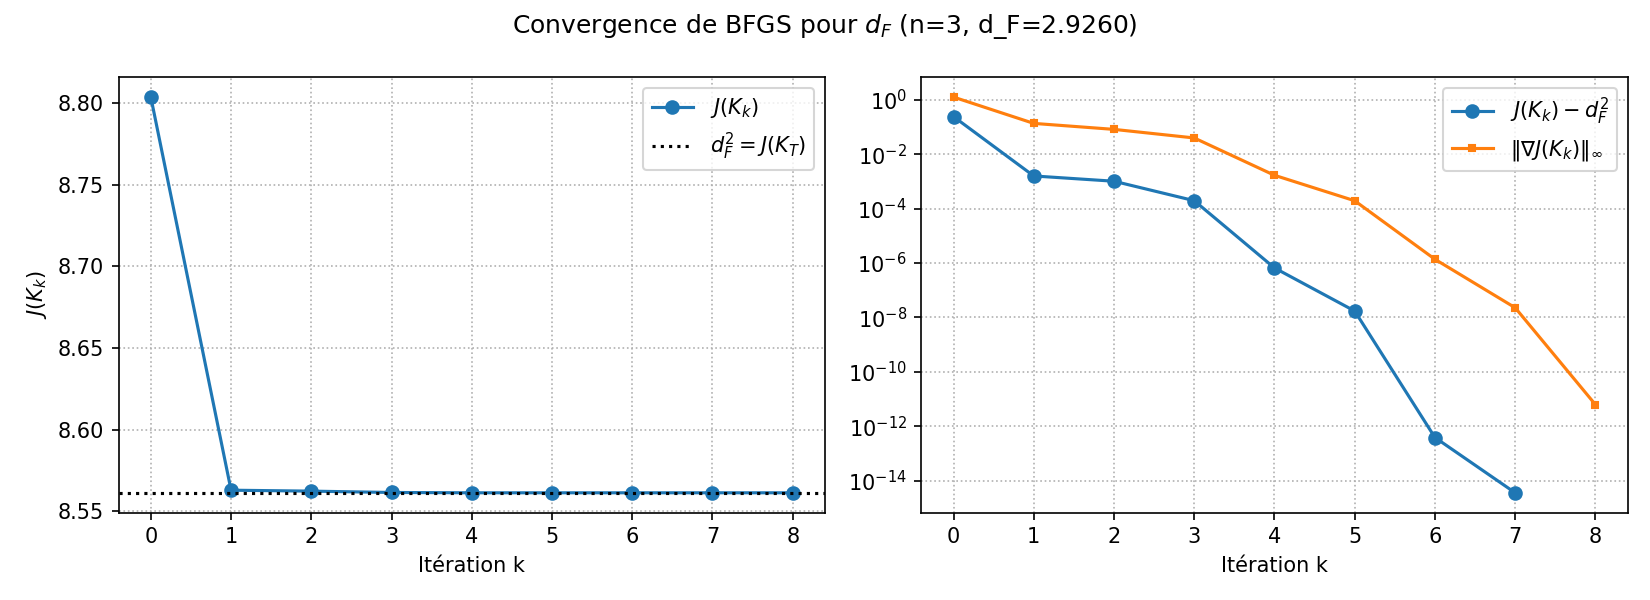
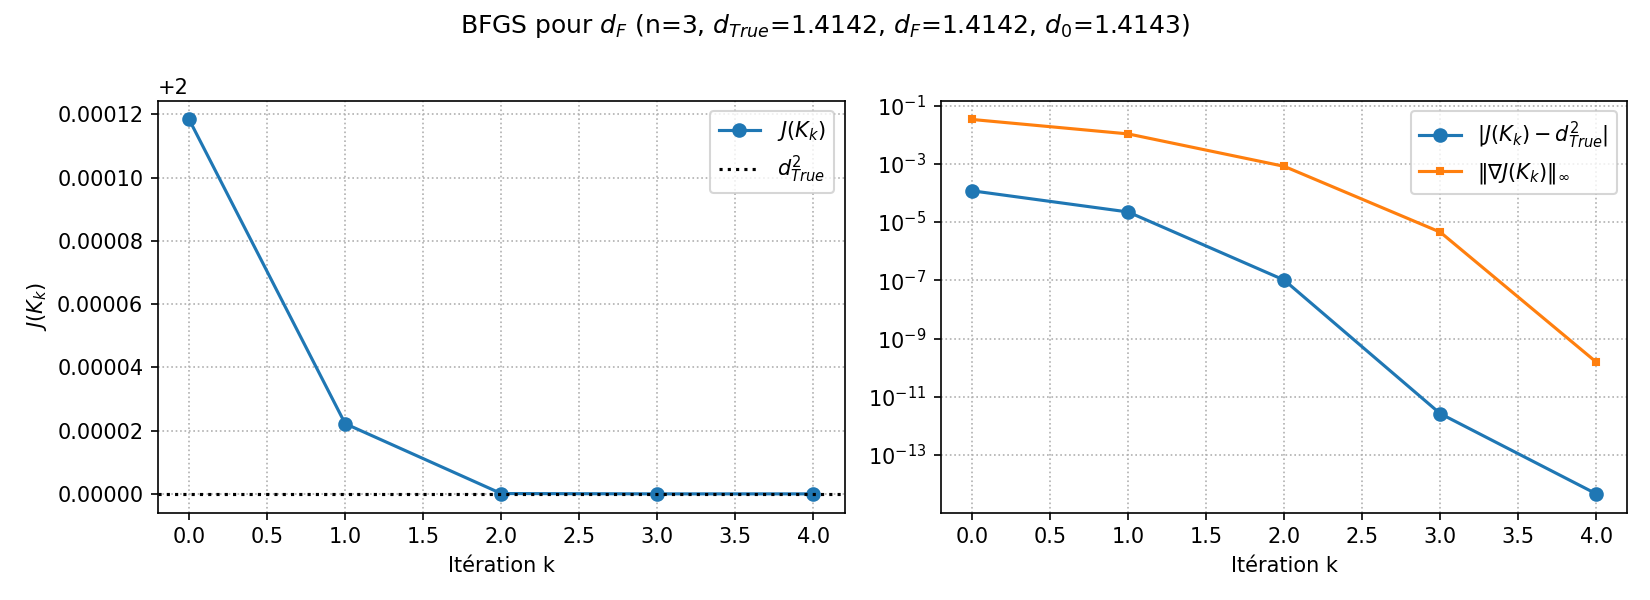
Benchmark BFGS d_F in run_dF_iterates against a known geodesic length
Replace the hand-picked MVN pair by N(mu1, Sigma1) = Exp_{N(mu0, Sigma0)}(v, T)
with prescribed Fisher norms of the mean and covariance parts, and compare the
BFGS d_F and d_0 to the geodesic length d_True. Save the full case to
output/dF_iterates.json for reproducibility.

diff --git a/scripts/run_dF_iterates.py b/scripts/run_dF_iterates.py
@@ -1,30 +1,64 @@
+import json
 import time
 
 import numpy as np
 import matplotlib.pyplot as plt
 
 from src.distance import dist2_dF_iterates
+from src.mvn import exp_map_mvn, fisher_norm2
+from src.simulated_data import random_SPD, sym
 
 
 def main() -> None:
     """
-    Computes d_F between two chosen MVNs and plots the BFGS iterates J(K_k).
-    """
-    print("[run_dF_iterates] starting…")
+    Builds a pair of MVNs joined by a known geodesic, computes d_F by BFGS and
+    compares it, together with d_0, to the length d_True of that geodesic.
 
-    # ----- paramètres des deux MVN -----
-    mu0 = np.array([0., 0., 0.])
-    Sigma0 = np.array([[2.0, 0.5, 0.0],
-                       [0.5, 1.0, 0.3],
-                       [0.0, 0.3, 0.5]])
-    mu1 = np.array([1.0, -2.0, 0.5])
-    Sigma1 = np.array([[0.2, 0.0, 0.0],
-                       [0.0, 3.0, 0.0],
-                       [0.0, 0.0, 1.0]])
+    The first MVN N(mu0, Sigma0) is random, with cond(Sigma0) prescribed. A random
+    tangent vector (v, T) is drawn with prescribed Fisher norms mean_speed and
+    cov_speed of its mean and covariance parts, and
+    N(mu1, Sigma1) = Exp_{N(mu0, Sigma0)}(v, T). The geodesic t -> Exp(t (v, T)),
+    t in [0, 1], has length d_True = sqrt(mean_speed^2 + cov_speed^2) >= d_F;
+    d_True is taken as the reference d_F,
+    which assumes that this geodesic is minimizing (not guaranteed for large d_True).
+    """
+    print("[run_dF_iterates] starting...")
+
+    # ----- paramètres du cas -----
+    n_features = 3
+    condition_number = 10.0   # cond(Sigma0)
+    mean_speed = 1.0          # norme de Fisher de la partie moyenne : ||L^{-1} v||
+    cov_speed = 1.0           # norme de Fisher de la partie covariance : ||L^{-1} T L^{-T}||_F / sqrt(2)
+    seed = 0
 
     # ----- paramètres de l'optimiseur -----
     tol = 1e-10
     max_iter = 1000
+    # Seuil relatif pour comparer d_F (BFGS) à d_True, au-dessus de l'erreur d'arrondi.
+    agreement_rtol = 1e-6
+
+    # ----- génération de la première MVN et du vecteur tangent -----
+    # random_SPD utilise le générateur global de NumPy (via scipy.stats).
+    np.random.seed(seed)
+    mu0 = np.random.standard_normal(n_features)
+    Sigma0 = random_SPD(n_features, condition_number)
+    L = np.linalg.cholesky(Sigma0)
+
+    # Vitesse blanchie (a, A) en N(0, I), normalisée selon la métrique de Fisher :
+    # ||a||^2 = mean_speed^2 et Tr(A^2) / 2 = cov_speed^2.
+    a = np.random.standard_normal(n_features)
+    a *= mean_speed / np.linalg.norm(a)
+    A = sym(np.random.standard_normal((n_features, n_features)))
+    A *= cov_speed / np.sqrt(0.5 * np.sum(A**2))
+    v, T = L @ a, L @ A @ L.T
+
+    # Longueur de la géodésique t -> Exp(t (v, T)), t in [0, 1] :
+    # d_True = ||(v, T)|| = sqrt(mean_speed^2 + cov_speed^2).
+    d_True = np.sqrt(fisher_norm2(Sigma0, v, T))
+    mu1, Sigma1 = exp_map_mvn(mu0, Sigma0, v, T)
+    print(f"  n = {n_features}, cond(Sigma0) = {condition_number:g}, "
+          f"mean_speed = {mean_speed:g}, cov_speed = {cov_speed:g}, seed = {seed}")
+    print(f"  cond(Sigma1) = {np.linalg.cond(Sigma1):.3g}")
 
     # ----- calcul de d_F avec ses itérés -----
     start = time.perf_counter()
@@ -32,43 +66,73 @@ def main() -> None:
         mu0, Sigma0, mu1, Sigma1, tol=tol, max_iter=max_iter)
     time_dF = time.perf_counter() - start
 
+    d_F = np.sqrt(dF_2)
+    d_0 = np.sqrt(J_values[0])    # K_0 = 0, donc J(K_0) = d_0^2
     n_iter = J_values.size - 1
-    print(f"  d_F = {np.sqrt(dF_2):.10f}   (d_F^2 = {dF_2:.10e})")
+    rel_error_dF = (d_F - d_True) / d_True
+    rel_error_d0 = (d_0 - d_True) / d_True
+
+    print(f"  d_True     = {d_True:.10f}")
+    print(f"  d_F (BFGS) = {d_F:.10f}   (d_F - d_True)/d_True = {rel_error_dF:+.3e}")
+    print(f"  d_0        = {d_0:.10f}   (d_0 - d_True)/d_True = {rel_error_d0:+.3e}")
     print(f"  {n_iter} BFGS iterations in {time_dF * 1e3:.2f} ms, "
           f"final |grad|_inf = {grad_norms[-1]:.2e}, tol = {tol:.0e}")
     print(f"  ||K_T||_F = {np.linalg.norm(K_iterates[-1]):.4f}")
 
-    # ----- liste des itérés -----
-    print("k\tJ(K_k)\t\tJ(K_k) - d_F^2\t|grad|_inf")
-    print("-" * 56)
-    table = np.column_stack([np.arange(n_iter + 1), J_values, J_values - dF_2, grad_norms])
-    np.savetxt("output/dF_iterates.csv", table, delimiter=",",
-               header="k,J,J_minus_dF2,grad_inf", comments="")
-    for k, J, gap, grad in table:
-        print(f"{int(k):3d}\t{J:.10e}\t{gap:.3e}\t{grad:.3e}")
+    # J(K) >= d_F^2 pour tout K et d_True >= d_F : les deux sont des majorants de d_F.
+    if rel_error_dF > agreement_rtol:
+        verdict = "d_F (BFGS) > d_True : BFGS s'arrête au-dessus de d_F (minimum local ou non convergé)."
+    elif rel_error_dF < -agreement_rtol:
+        verdict = "d_F (BFGS) < d_True : la géodésique générée n'est pas minimisante, d_True n'est pas d_F."
+    else:
+        verdict = "d_F (BFGS) = d_True à la tolérance près."
+    print(f"  -> {verdict}")
 
-    # ----- tracé : J(K_k) et écart à d_F^2 -----
+    # ----- liste des itérés -----
+    print("k\tJ(K_k)\t\tJ(K_k) - d_True^2\t|grad|_inf")
+    print("-" * 64)
+    table = np.column_stack([np.arange(n_iter + 1), J_values, J_values - d_True**2, grad_norms])
+    np.savetxt("output/dF_iterates.csv", table, delimiter=",",
+               header="k,J,J_minus_dTrue2,grad_inf", comments="")
+    for k, J, gap, grad in table:
+        print(f"{int(k):3d}\t{J:.10e}\t{gap:+.3e}\t\t{grad:.3e}")
+
+    # ----- enregistrement du cas, pour reproductibilité -----
+    record = dict(
+        n_features=n_features, condition_number=condition_number, mean_speed=mean_speed,
+        cov_speed=cov_speed, seed=seed, tol=tol, max_iter=max_iter,
+        optimizer="BFGS, K_0 = 0, analytic gradient",
+        mu0=mu0.tolist(), Sigma0=Sigma0.tolist(), v=v.tolist(), T=T.tolist(),
+        mu1=mu1.tolist(), Sigma1=Sigma1.tolist(),
+        d_True=d_True, d_F=d_F, d_0=d_0, rel_error_dF=rel_error_dF, rel_error_d0=rel_error_d0,
+        n_iter=n_iter, final_grad_inf=grad_norms[-1], time_dF=time_dF, verdict=verdict,
+    )
+    with open("output/dF_iterates.json", "w", encoding="utf-8") as f:
+        json.dump(record, f, indent=2, ensure_ascii=False)
+
+    # ----- tracé : J(K_k) et écart à d_True^2 -----
     fig, (ax_J, ax_gap) = plt.subplots(1, 2, figsize=(11, 4))
     ax_J.plot(J_values, marker="o", label=r"$J(K_k)$")
-    ax_J.axhline(dF_2, ls=":", c="k", label=r"$d_F^2 = J(K_T)$")
+    ax_J.axhline(d_True**2, ls=":", c="k", label=r"$d_{True}^2$")
     ax_J.set_xlabel("Itération k")
     ax_J.set_ylabel(r"$J(K_k)$")
     ax_J.legend()
     ax_J.grid(True, ls=":")
 
-    # Le dernier itéré est la référence : l'écart y vaut 0, on ne le trace pas en log.
-    ax_gap.semilogy(J_values[:-1] - dF_2, marker="o", label=r"$J(K_k) - d_F^2$")
+    ax_gap.semilogy(np.abs(J_values - d_True**2), marker="o", label=r"$|J(K_k) - d_{True}^2|$")
     ax_gap.semilogy(grad_norms, marker="s", ms=3, label=r"$\|\nabla J(K_k)\|_\infty$")
     ax_gap.set_xlabel("Itération k")
     ax_gap.legend()
     ax_gap.grid(True, which="both", ls=":")
 
-    fig.suptitle(f"Convergence de BFGS pour $d_F$ (n={mu0.size}, d_F={np.sqrt(dF_2):.4f})")
+    fig.suptitle(f"BFGS pour $d_F$ (n={n_features}, $d_{{True}}$={d_True:.4f}, "
+                 f"$d_F$={d_F:.4f}, $d_0$={d_0:.4f})")
     fig.tight_layout()
 
     out_path = "output/dF_iterates.png"
     fig.savefig(out_path, dpi=150)
-    print(f"[run_dF_iterates] saved figure -> {out_path} and data -> output/dF_iterates.csv")
+    print(f"[run_dF_iterates] saved figure -> {out_path}, "
+          f"data -> output/dF_iterates.csv and output/dF_iterates.json")
 
     plt.show(block=True)
     print("[run_dF_iterates] done.")
